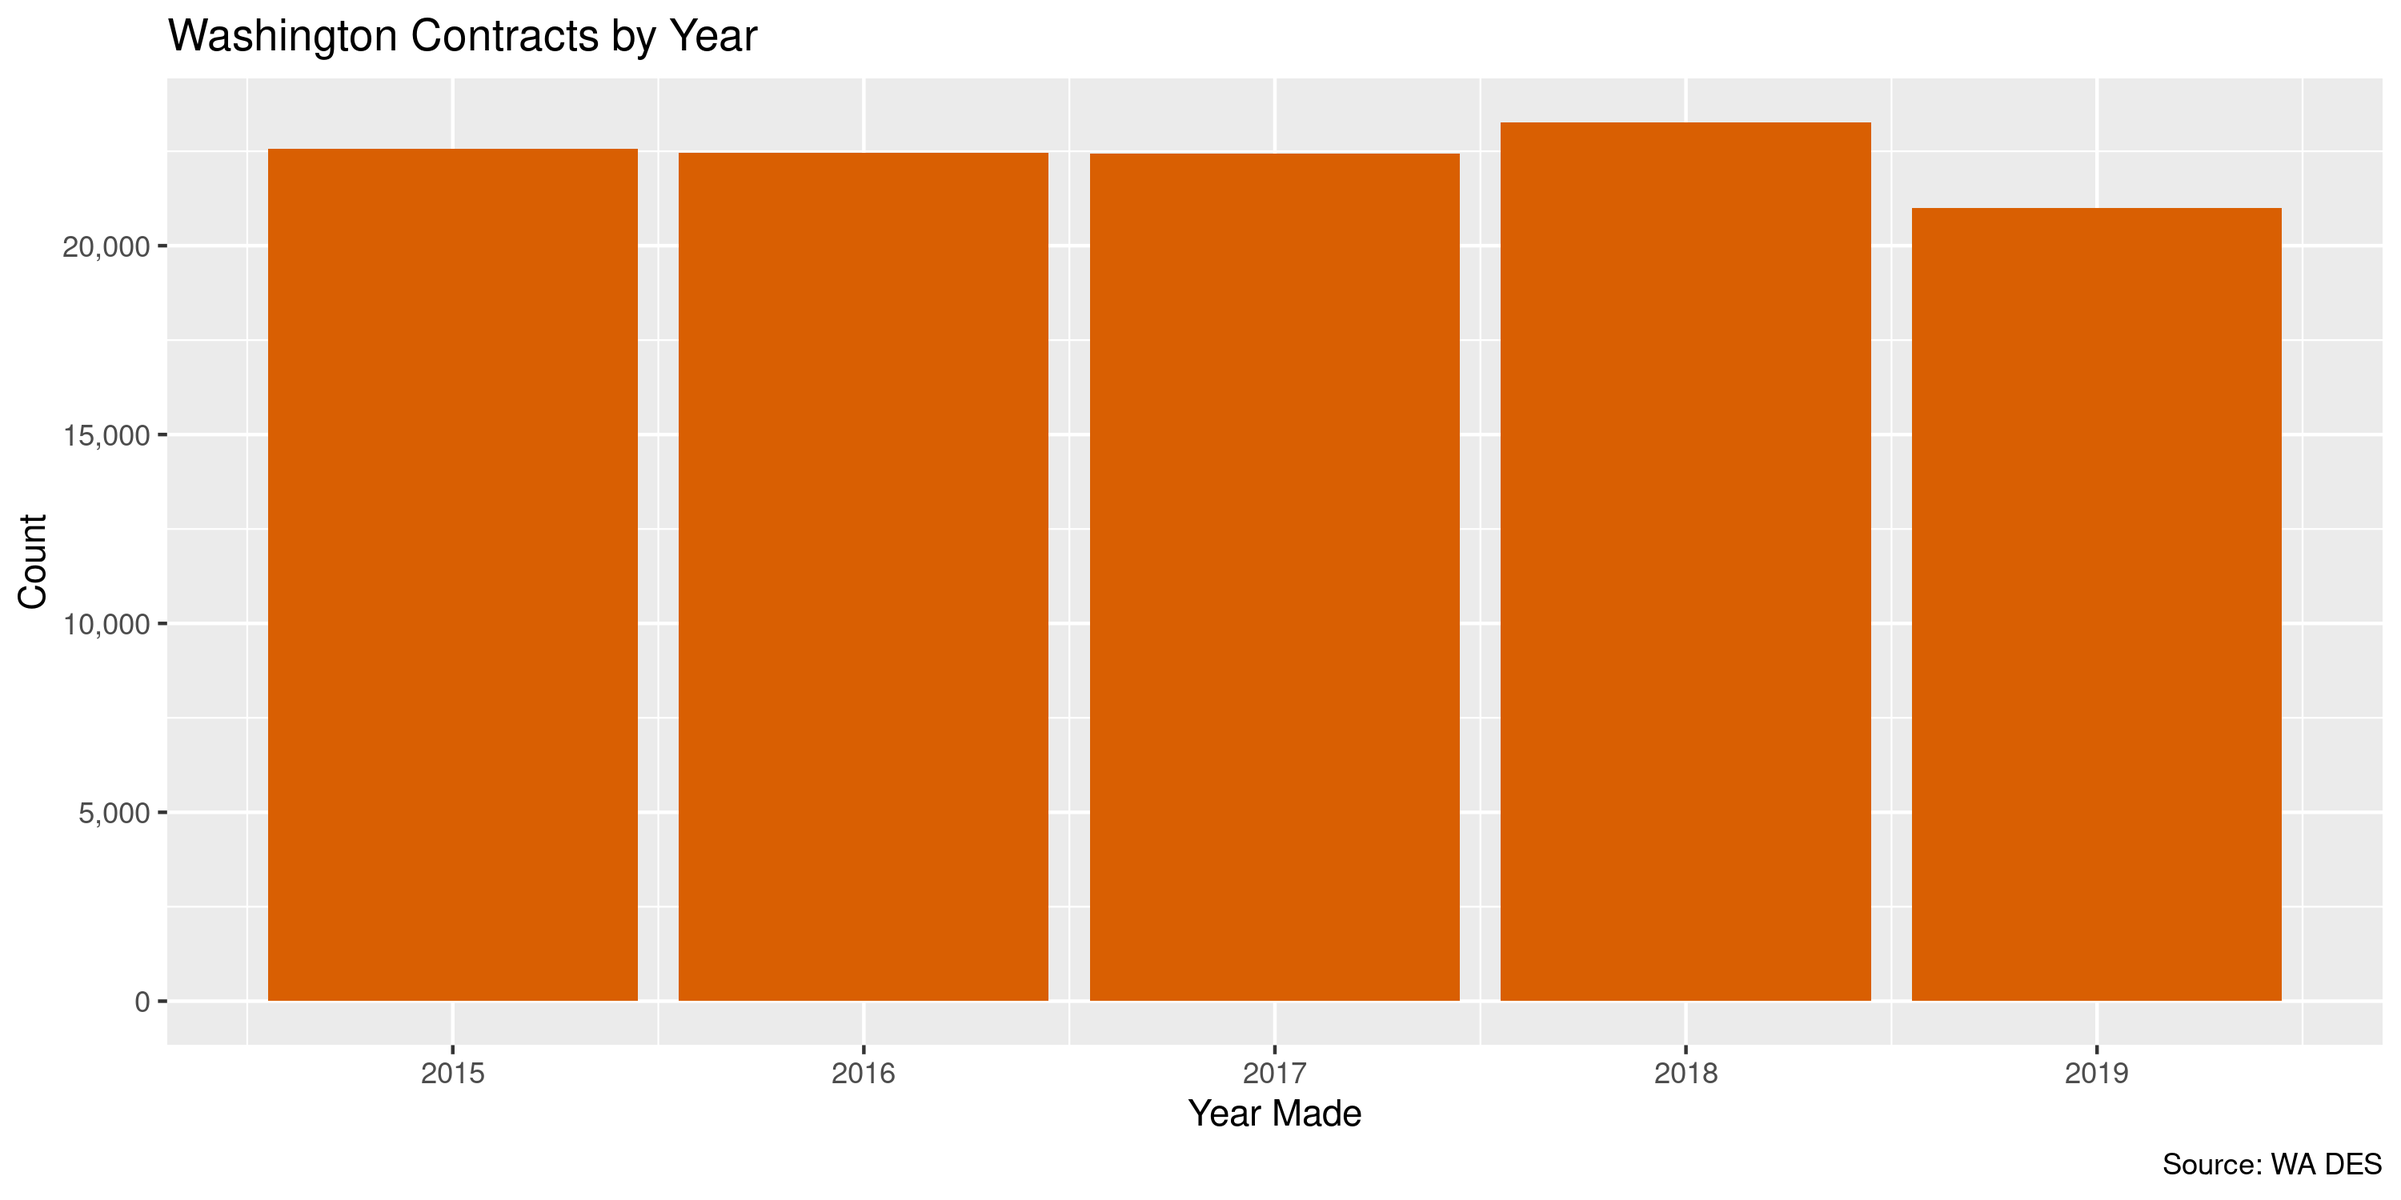
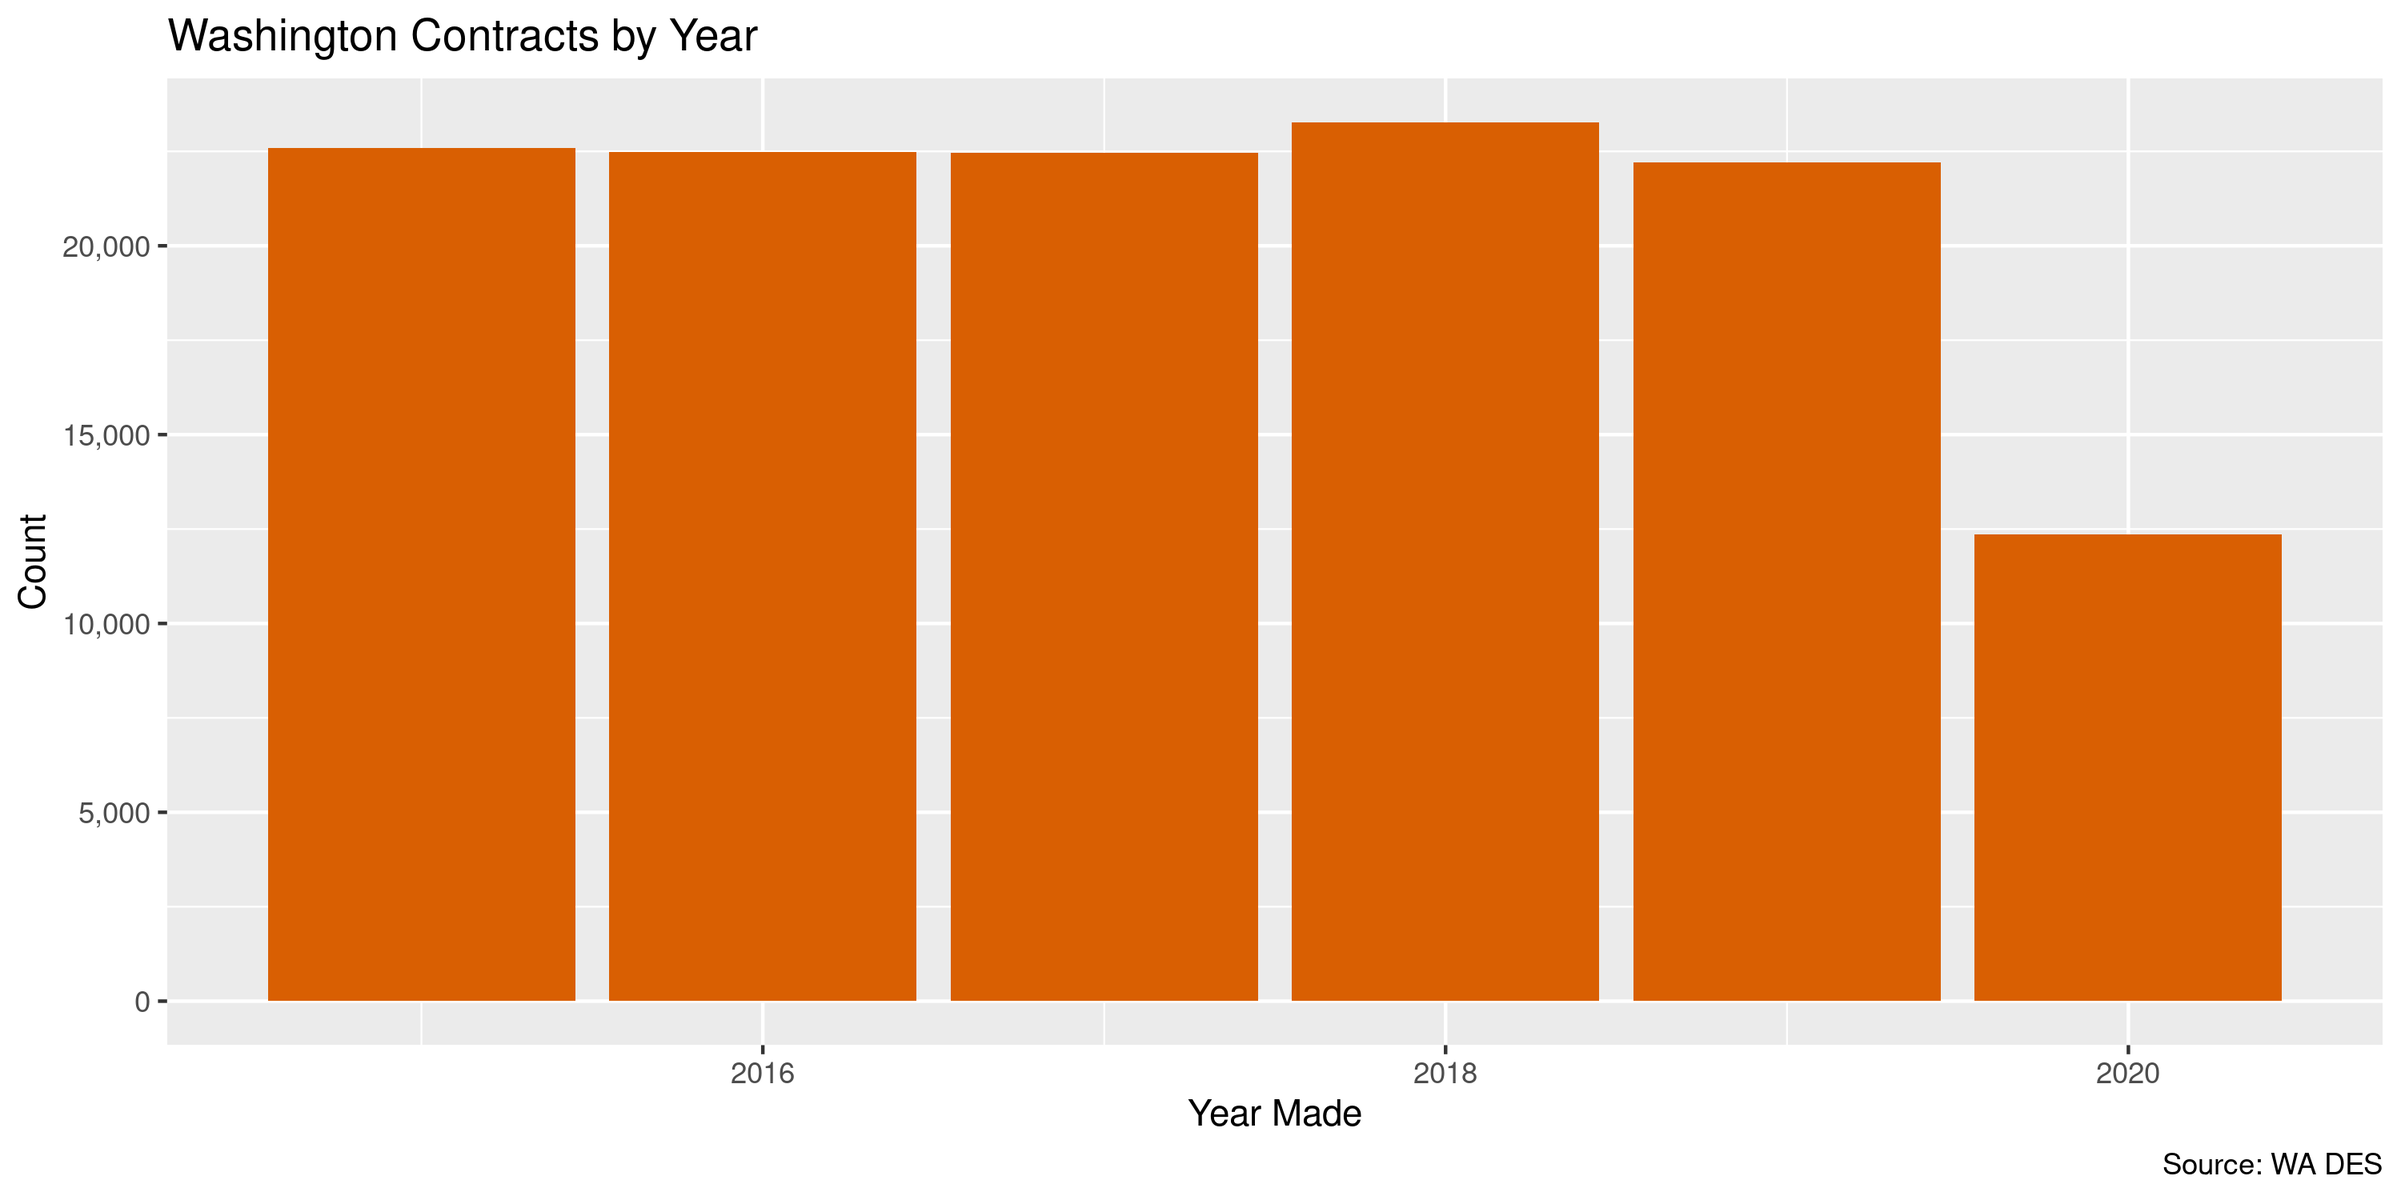
Fix WA contracts

diff --git a/R_campfin/wa/contracts/docs/wa_contracts_diary.md b/R_campfin/wa/contracts/docs/wa_contracts_diary.md
@@ -1,7 +1,7 @@
 Washington Contracts
 ================
 Kiernan Nicholls
-2020-04-20 14:48:12
+2020-06-05 12:21:11
 
   - [Project](#project)
   - [Objectives](#objectives)
@@ -61,7 +61,8 @@ pacman::p_load(
   lubridate, # datetime strings
   magrittr, # pipe operators
   jsonlite, # parse json files
-  janitor, # dataframe clean
+  janitor, # data frame clean
+  batman, # parse logicals
   refinr, # cluster and merge
   scales, # format strings
   knitr, # knit documents
@@ -95,7 +96,7 @@ The contracts
 is from the Washington state [Department of Enterprise
 Services](https://des.wa.gov/). The data can be retrieved from the
 Washington OpenData portal under the title “Master Contract Sales Data
-by Customer, Contract, Vendor” in the “Procurements and Contracts”
+by Customer, Contract, Vendor” in the “Procurement and Contracts”
 category. The data file was last updated on January 21, 2020. As of
 writing, due to the ongoing Covid-19 pandemic, our typical efforts to
 verify this OpenData source as the most updated were not made.
@@ -126,11 +127,11 @@ count(wac, vet_owned)
 #> # A tibble: 2 x 2
 #>   vet_owned      n
 #>   <chr>      <int>
-#> 1 N         111239
-#> 2 Y            499
+#> 1 N         124778
+#> 2 Y            578
 wac <- mutate_at(
   .tbl = wac,
-  .vars = vars(12:15),
+  .vars = vars(12:14),
   .funs = equals, "Y"
 )
 ```
@@ -138,74 +139,59 @@ wac <- mutate_at(
 ## Explore
 
 ``` r
-head(wac)
-#> # A tibble: 6 x 15
-#>   customer_type customer_name contract_number contract_title vendor_name calendar_year
-#>   <chr>         <chr>         <chr>           <chr>          <chr>               <int>
-#> 1 County        KING CO       00111           Fertilizers    WILBUR-ELL…          2015
-#> 2 County        KITSAP CO     00111           Fertilizers    WILBUR-ELL…          2015
-#> 3 County        SPOKANE CO    00111           Fertilizers    WILBUR-ELL…          2015
-#> 4 Cities Inclu… E WENATCHEE … 00111           Fertilizers    WILBUR-ELL…          2015
-#> 5 Cities Inclu… BELLEVUE CIT… 00111           Fertilizers    WILBUR-ELL…          2015
-#> 6 Cities Inclu… ISSAQUAH CIT… 00111           Fertilizers    WILBUR-ELL…          2015
-#> # … with 9 more variables: q1_sales_reported <dbl>, q2_sales_reported <dbl>,
-#> #   q3_sales_reported <dbl>, q4_sales_reported <dbl>, omwbe <chr>, vet_owned <lgl>,
-#> #   small_business <lgl>, two_tier <lgl>, diverse_options <lgl>
-tail(wac)
-#> # A tibble: 6 x 15
-#>   customer_type customer_name contract_number contract_title vendor_name calendar_year
-#>   <chr>         <chr>         <chr>           <chr>          <chr>               <int>
-#> 1 County        YAKIMA CO     12304           Dump Bodies-V… NORTHEND T…          2019
-#> 2 Cities Inclu… PUYALLUP CIT… 12304           Dump Bodies-V… NORTHEND T…          2019
-#> 3 Cities Inclu… SEATAC CITY … 12304           Dump Bodies-V… NORTHEND T…          2019
-#> 4 Cities Inclu… YAKIMA CITY … 12304           Dump Bodies-V… NORTHEND T…          2019
-#> 5 State Agency  TRANSPORTATI… 12304           Dump Bodies-V… NORTHEND T…          2019
-#> 6 Cities Inclu… SAMMAMISH CI… 12304           Dump Bodies-V… NORTHEND T…          2019
-#> # … with 9 more variables: q1_sales_reported <dbl>, q2_sales_reported <dbl>,
-#> #   q3_sales_reported <dbl>, q4_sales_reported <dbl>, omwbe <chr>, vet_owned <lgl>,
-#> #   small_business <lgl>, two_tier <lgl>, diverse_options <lgl>
 glimpse(wac)
-#> Rows: 111,738
-#> Columns: 15
-#> $ customer_type     <chr> "County", "County", "County", "Cities Including Towns", "Cities Includ…
-#> $ customer_name     <chr> "KING CO", "KITSAP CO", "SPOKANE CO", "E WENATCHEE CITY OF", "BELLEVUE…
+#> Rows: 125,356
+#> Columns: 14
+#> $ customer_type     <chr> "School Districts", "Cities Including Towns", "County", "County", "Cit…
+#> $ customer_name     <chr> "AUBURN SCHOOL DISTRICT 408", "EAST WENATCHEE, CITY OF", "KING COUNTY"…
 #> $ contract_number   <chr> "00111", "00111", "00111", "00111", "00111", "00111", "00111", "00111"…
 #> $ contract_title    <chr> "Fertilizers", "Fertilizers", "Fertilizers", "Fertilizers", "Fertilize…
 #> $ vendor_name       <chr> "WILBUR-ELLIS COMPANY", "WILBUR-ELLIS COMPANY", "WILBUR-ELLIS COMPANY"…
 #> $ calendar_year     <int> 2015, 2015, 2015, 2015, 2015, 2015, 2015, 2015, 2015, 2015, 2015, 2015…
-#> $ q1_sales_reported <dbl> 480, 435, 0, 0, 0, 0, 271, 135, 0, 0, 0, 3133, 0, 36, 0, 3176, 0, 2694…
-#> $ q2_sales_reported <dbl> 529, 0, 1181, 0, 0, 975, 271, 196, 0, 3241, 0, 2089, 0, 30, 6137, 0, 7…
-#> $ q3_sales_reported <dbl> 1351, 0, 0, 4360, 0, 986, 0, 0, 0, 0, 0, 0, 271, 0, 0, 1588, 0, 0, 0, …
-#> $ q4_sales_reported <dbl> 11131, 1034, 413, 0, 252, 1986, 0, 0, 765, 2820, 481, 1031, 0, 0, 1000…
+#> $ q1_sales_reported <dbl> 0, 0, 480, 435, 271, 3176, 135, 3133, 36, 2694, 0, 0, 0, 0, 0, 0, 0, 0…
+#> $ q2_sales_reported <dbl> 0, 0, 529, 0, 271, 0, 196, 2089, 30, 0, 3241, 794, 1604, 6137, 1181, 1…
+#> $ q3_sales_reported <dbl> 271, 4360, 1351, 0, 0, 1588, 0, 0, 0, 0, 0, 0, 0, 0, 0, 0, 986, 0, 0, …
+#> $ q4_sales_reported <dbl> 0, 0, 11131, 1034, 0, 135, 0, 1031, 0, 0, 2820, 189, 0, 10004, 413, 0,…
 #> $ omwbe             <chr> NA, NA, NA, NA, NA, NA, NA, NA, NA, NA, NA, NA, NA, NA, NA, NA, NA, NA…
 #> $ vet_owned         <lgl> FALSE, FALSE, FALSE, FALSE, FALSE, FALSE, FALSE, FALSE, FALSE, FALSE, …
 #> $ small_business    <lgl> FALSE, FALSE, FALSE, FALSE, FALSE, FALSE, FALSE, FALSE, FALSE, FALSE, …
-#> $ two_tier          <lgl> FALSE, FALSE, FALSE, FALSE, FALSE, FALSE, FALSE, FALSE, FALSE, FALSE, …
 #> $ diverse_options   <lgl> FALSE, FALSE, FALSE, FALSE, FALSE, FALSE, FALSE, FALSE, FALSE, FALSE, …
+tail(wac)
+#> # A tibble: 6 x 14
+#>   customer_type customer_name contract_number contract_title vendor_name calendar_year
+#>   <chr>         <chr>         <chr>           <chr>          <chr>               <int>
+#> 1 Customers     <NA>          09712           ESRI - Softwa… ENVIRONMEN…          2020
+#> 2 Districts, O… FERRY COUNTY… 09712           ESRI - Softwa… ENVIRONMEN…          2020
+#> 3 County        FRANKLIN COU… 09712           ESRI - Softwa… ENVIRONMEN…          2020
+#> 4 Cities Inclu… MAPLE VALLEY… 09712           ESRI - Softwa… ENVIRONMEN…          2020
+#> 5 Cities Inclu… OAK HARBOR, … 09712           ESRI - Softwa… ENVIRONMEN…          2020
+#> 6 Customers     <NA>          09712           ESRI - Softwa… ENVIRONMEN…          2020
+#> # … with 8 more variables: q1_sales_reported <dbl>, q2_sales_reported <dbl>,
+#> #   q3_sales_reported <dbl>, q4_sales_reported <dbl>, omwbe <chr>, vet_owned <lgl>,
+#> #   small_business <lgl>, diverse_options <lgl>
 ```
 
 ### Missing
 
 ``` r
 col_stats(wac, count_na)
-#> # A tibble: 15 x 4
-#>    col               class      n      p
-#>    <chr>             <chr>  <int>  <dbl>
-#>  1 customer_type     <chr>      0 0     
-#>  2 customer_name     <chr>   6697 0.0599
-#>  3 contract_number   <chr>      0 0     
-#>  4 contract_title    <chr>      0 0     
-#>  5 vendor_name       <chr>      0 0     
-#>  6 calendar_year     <int>      0 0     
-#>  7 q1_sales_reported <dbl>      0 0     
-#>  8 q2_sales_reported <dbl>      0 0     
-#>  9 q3_sales_reported <dbl>      0 0     
-#> 10 q4_sales_reported <dbl>      0 0     
-#> 11 omwbe             <chr> 108753 0.973 
-#> 12 vet_owned         <lgl>      0 0     
-#> 13 small_business    <lgl>      0 0     
-#> 14 two_tier          <lgl>      0 0     
-#> 15 diverse_options   <lgl>      0 0
+#> # A tibble: 14 x 4
+#>    col               class      n     p
+#>    <chr>             <chr>  <int> <dbl>
+#>  1 customer_type     <chr>      0 0    
+#>  2 customer_name     <chr>  15739 0.126
+#>  3 contract_number   <chr>      0 0    
+#>  4 contract_title    <chr>      0 0    
+#>  5 vendor_name       <chr>      0 0    
+#>  6 calendar_year     <int>      0 0    
+#>  7 q1_sales_reported <dbl>      0 0    
+#>  8 q2_sales_reported <dbl>      0 0    
+#>  9 q3_sales_reported <dbl>      0 0    
+#> 10 q4_sales_reported <dbl>      0 0    
+#> 11 omwbe             <chr> 121988 0.973
+#> 12 vet_owned         <lgl>      0 0    
+#> 13 small_business    <lgl>      0 0    
+#> 14 diverse_options   <lgl>      0 0
 ```
 
 About 6% of transactions are missing the customer name.
@@ -213,7 +199,7 @@ About 6% of transactions are missing the customer name.
 ``` r
 wac <- wac %>% flag_na(customer_name, vendor_name)
 percent(mean(wac$na_flag), 0.01)
-#> [1] "5.99%"
+#> [1] "12.56%"
 ```
 
 ### Duplicates
@@ -224,48 +210,52 @@ name.
 ``` r
 wac <- flag_dupes(wac, everything())
 sum(wac$dupe_flag)
-#> [1] 6
+#> [1] 54
 ```
 
 ``` r
 wac %>% 
   filter(dupe_flag) %>% 
   select(customer_name, vendor_name, calendar_year)
-#> # A tibble: 6 x 3
-#>   customer_name vendor_name                                    calendar_year
-#>   <chr>         <chr>                                                  <int>
-#> 1 <NA>          CLARK NUBER P.S.                                        2015
-#> 2 <NA>          CLARK NUBER P.S.                                        2015
-#> 3 <NA>          PACWEST MACHINERY LLC                                   2016
-#> 4 <NA>          PACWEST MACHINERY LLC                                   2016
-#> 5 <NA>          KONICA MINOLTA BUSINESS SOLUTIONS U.S.A., INC.          2017
-#> 6 <NA>          KONICA MINOLTA BUSINESS SOLUTIONS U.S.A., INC.          2017
+#> # A tibble: 54 x 3
+#>    customer_name vendor_name          calendar_year
+#>    <chr>         <chr>                        <int>
+#>  1 <NA>          US ARMOR CORPORATION          2015
+#>  2 <NA>          US ARMOR CORPORATION          2015
+#>  3 <NA>          PITNEY BOWES INC              2015
+#>  4 <NA>          PITNEY BOWES INC              2015
+#>  5 <NA>          PITNEY BOWES INC              2015
+#>  6 <NA>          PITNEY BOWES INC              2015
+#>  7 <NA>          PITNEY BOWES INC              2015
+#>  8 <NA>          PITNEY BOWES INC              2015
+#>  9 <NA>          PITNEY BOWES INC              2015
+#> 10 <NA>          PITNEY BOWES INC              2015
+#> # … with 44 more rows
 ```
 
 ### Categorical
 
 ``` r
 col_stats(wac, n_distinct)
-#> # A tibble: 17 x 4
+#> # A tibble: 16 x 4
 #>    col               class     n         p
 #>    <chr>             <chr> <int>     <dbl>
-#>  1 customer_type     <chr>    19 0.000170 
-#>  2 customer_name     <chr>  1914 0.0171   
-#>  3 contract_number   <chr>   404 0.00362  
-#>  4 contract_title    <chr>   373 0.00334  
-#>  5 vendor_name       <chr>  2012 0.0180   
-#>  6 calendar_year     <int>     5 0.0000447
-#>  7 q1_sales_reported <dbl> 22363 0.200    
-#>  8 q2_sales_reported <dbl> 24022 0.215    
-#>  9 q3_sales_reported <dbl> 22488 0.201    
-#> 10 q4_sales_reported <dbl> 20035 0.179    
-#> 11 omwbe             <chr>     4 0.0000358
-#> 12 vet_owned         <lgl>     2 0.0000179
-#> 13 small_business    <lgl>     2 0.0000179
-#> 14 two_tier          <lgl>     2 0.0000179
-#> 15 diverse_options   <lgl>     2 0.0000179
-#> 16 na_flag           <lgl>     2 0.0000179
-#> 17 dupe_flag         <lgl>     2 0.0000179
+#>  1 customer_type     <chr>    19 0.000152 
+#>  2 customer_name     <chr>  1328 0.0106   
+#>  3 contract_number   <chr>   415 0.00331  
+#>  4 contract_title    <chr>   383 0.00306  
+#>  5 vendor_name       <chr>  2075 0.0166   
+#>  6 calendar_year     <int>     6 0.0000479
+#>  7 q1_sales_reported <dbl> 25099 0.200    
+#>  8 q2_sales_reported <dbl> 24017 0.192    
+#>  9 q3_sales_reported <dbl> 22497 0.179    
+#> 10 q4_sales_reported <dbl> 22210 0.177    
+#> 11 omwbe             <chr>     4 0.0000319
+#> 12 vet_owned         <lgl>     2 0.0000160
+#> 13 small_business    <lgl>     2 0.0000160
+#> 14 diverse_options   <lgl>     2 0.0000160
+#> 15 na_flag           <lgl>     2 0.0000160
+#> 16 dupe_flag         <lgl>     2 0.0000160
 ```
 
 ``` r
@@ -274,23 +264,23 @@ wac %>%
   map(~mutate(count(data.frame(x = .x), x), p = n/sum(n)))
 #> $vet_owned
 #>       x      n           p
-#> 1 FALSE 111239 0.995534196
-#> 2  TRUE    499 0.004465804
+#> 1 FALSE 124778 0.995389132
+#> 2  TRUE    578 0.004610868
 #> 
 #> $small_business
-#>       x     n         p
-#> 1 FALSE 99557 0.8909861
-#> 2  TRUE 12181 0.1090139
-#> 
-#> $two_tier
-#>       x      n          p
-#> 1 FALSE 103520 0.92645295
-#> 2  TRUE   8218 0.07354705
+#>       x      n         p
+#> 1 FALSE 111345 0.8882303
+#> 2  TRUE  14011 0.1117697
 #> 
 #> $diverse_options
 #>       x     n         p
-#> 1 FALSE 76906 0.6882708
-#> 2  TRUE 34832 0.3117292
+#> 1 FALSE 85315 0.6805817
+#> 2  TRUE 40041 0.3194183
+#> 
+#> $na_flag
+#>       x      n         p
+#> 1 FALSE 109617 0.8744456
+#> 2  TRUE  15739 0.1255544
 ```
 
 ### Amounts
@@ -307,16 +297,16 @@ wac <- wac %>%
 ``` r
 summary(wac$amount)
 #>      Min.   1st Qu.    Median      Mean   3rd Qu.      Max. 
-#>   -338208       710      3980     83715     21599 127182875
+#>   -338208       657      3749     81534     20576 127182875
 percent(mean(wac$amount <= 0), 0.01)
-#> [1] "5.99%"
+#> [1] "6.21%"
 ```
 
 ![](../plots/hist_amount-1.png)<!-- -->
 
 ### Dates
 
-The data goes back to 2015 and the number of contracts is fairly
+The data goes back to 2015 and the number of contracts is extremely
 consistent year to year.
 
 ![](../plots/bar_year-1.png)<!-- -->
@@ -325,33 +315,32 @@ consistent year to year.
 
 ``` r
 glimpse(wac)
-#> Rows: 111,738
-#> Columns: 18
+#> Rows: 125,356
+#> Columns: 17
 #> Rowwise: 
-#> $ customer_type     <chr> "County", "County", "County", "Cities Including Towns", "Cities Includ…
-#> $ customer_name     <chr> "KING CO", "KITSAP CO", "SPOKANE CO", "E WENATCHEE CITY OF", "BELLEVUE…
+#> $ customer_type     <chr> "School Districts", "Cities Including Towns", "County", "County", "Cit…
+#> $ customer_name     <chr> "AUBURN SCHOOL DISTRICT 408", "EAST WENATCHEE, CITY OF", "KING COUNTY"…
 #> $ contract_number   <chr> "00111", "00111", "00111", "00111", "00111", "00111", "00111", "00111"…
 #> $ contract_title    <chr> "Fertilizers", "Fertilizers", "Fertilizers", "Fertilizers", "Fertilize…
 #> $ vendor_name       <chr> "WILBUR-ELLIS COMPANY", "WILBUR-ELLIS COMPANY", "WILBUR-ELLIS COMPANY"…
 #> $ calendar_year     <int> 2015, 2015, 2015, 2015, 2015, 2015, 2015, 2015, 2015, 2015, 2015, 2015…
-#> $ q1_sales_reported <dbl> 480, 435, 0, 0, 0, 0, 271, 135, 0, 0, 0, 3133, 0, 36, 0, 3176, 0, 2694…
-#> $ q2_sales_reported <dbl> 529, 0, 1181, 0, 0, 975, 271, 196, 0, 3241, 0, 2089, 0, 30, 6137, 0, 7…
-#> $ q3_sales_reported <dbl> 1351, 0, 0, 4360, 0, 986, 0, 0, 0, 0, 0, 0, 271, 0, 0, 1588, 0, 0, 0, …
-#> $ q4_sales_reported <dbl> 11131, 1034, 413, 0, 252, 1986, 0, 0, 765, 2820, 481, 1031, 0, 0, 1000…
+#> $ q1_sales_reported <dbl> 0, 0, 480, 435, 271, 3176, 135, 3133, 36, 2694, 0, 0, 0, 0, 0, 0, 0, 0…
+#> $ q2_sales_reported <dbl> 0, 0, 529, 0, 271, 0, 196, 2089, 30, 0, 3241, 794, 1604, 6137, 1181, 1…
+#> $ q3_sales_reported <dbl> 271, 4360, 1351, 0, 0, 1588, 0, 0, 0, 0, 0, 0, 0, 0, 0, 0, 986, 0, 0, …
+#> $ q4_sales_reported <dbl> 0, 0, 11131, 1034, 0, 135, 0, 1031, 0, 0, 2820, 189, 0, 10004, 413, 0,…
 #> $ omwbe             <chr> NA, NA, NA, NA, NA, NA, NA, NA, NA, NA, NA, NA, NA, NA, NA, NA, NA, NA…
 #> $ vet_owned         <lgl> FALSE, FALSE, FALSE, FALSE, FALSE, FALSE, FALSE, FALSE, FALSE, FALSE, …
 #> $ small_business    <lgl> FALSE, FALSE, FALSE, FALSE, FALSE, FALSE, FALSE, FALSE, FALSE, FALSE, …
-#> $ two_tier          <lgl> FALSE, FALSE, FALSE, FALSE, FALSE, FALSE, FALSE, FALSE, FALSE, FALSE, …
 #> $ diverse_options   <lgl> FALSE, FALSE, FALSE, FALSE, FALSE, FALSE, FALSE, FALSE, FALSE, FALSE, …
 #> $ na_flag           <lgl> FALSE, FALSE, FALSE, FALSE, FALSE, FALSE, FALSE, FALSE, FALSE, FALSE, …
 #> $ dupe_flag         <lgl> FALSE, FALSE, FALSE, FALSE, FALSE, FALSE, FALSE, FALSE, FALSE, FALSE, …
-#> $ amount            <dbl> 13491, 1469, 1594, 4360, 252, 3947, 542, 331, 765, 6061, 481, 6253, 27…
+#> $ amount            <dbl> 271, 4360, 13491, 1469, 542, 4899, 331, 6253, 66, 2694, 6061, 983, 160…
 ```
 
-1.  There are 111,738 records in the database.
-2.  There are 6 duplicate records in the database.
+1.  There are 125,356 records in the database.
+2.  There are 54 duplicate records in the database.
 3.  The range and distribution of `amount` and `date` seem reasonable.
-4.  There are 6,697 records missing a name.
+4.  There are 15,739 records missing a name.
 5.  There is no geographic data to normalize.
 6.  The 4-digit `calendar_year` variable already exists.
 
@@ -362,12 +351,11 @@ clean_dir <- dir_create(here("wa", "contracts", "data", "clean"))
 clean_path <- path(clean_dir, "wa_Contracts_clean.csv")
 write_csv(wac, clean_path, na = "")
 file_size(clean_path)
-#> 16.7M
+#> 18.6M
 guess_encoding(clean_path)
-#> # A tibble: 3 x 2
+#> # A tibble: 2 x 2
 #>   encoding   confidence
 #>   <chr>           <dbl>
 #> 1 UTF-8            1   
-#> 2 ISO-8859-1       0.37
-#> 3 ISO-8859-2       0.21
+#> 2 ISO-8859-1       0.35
 ```
